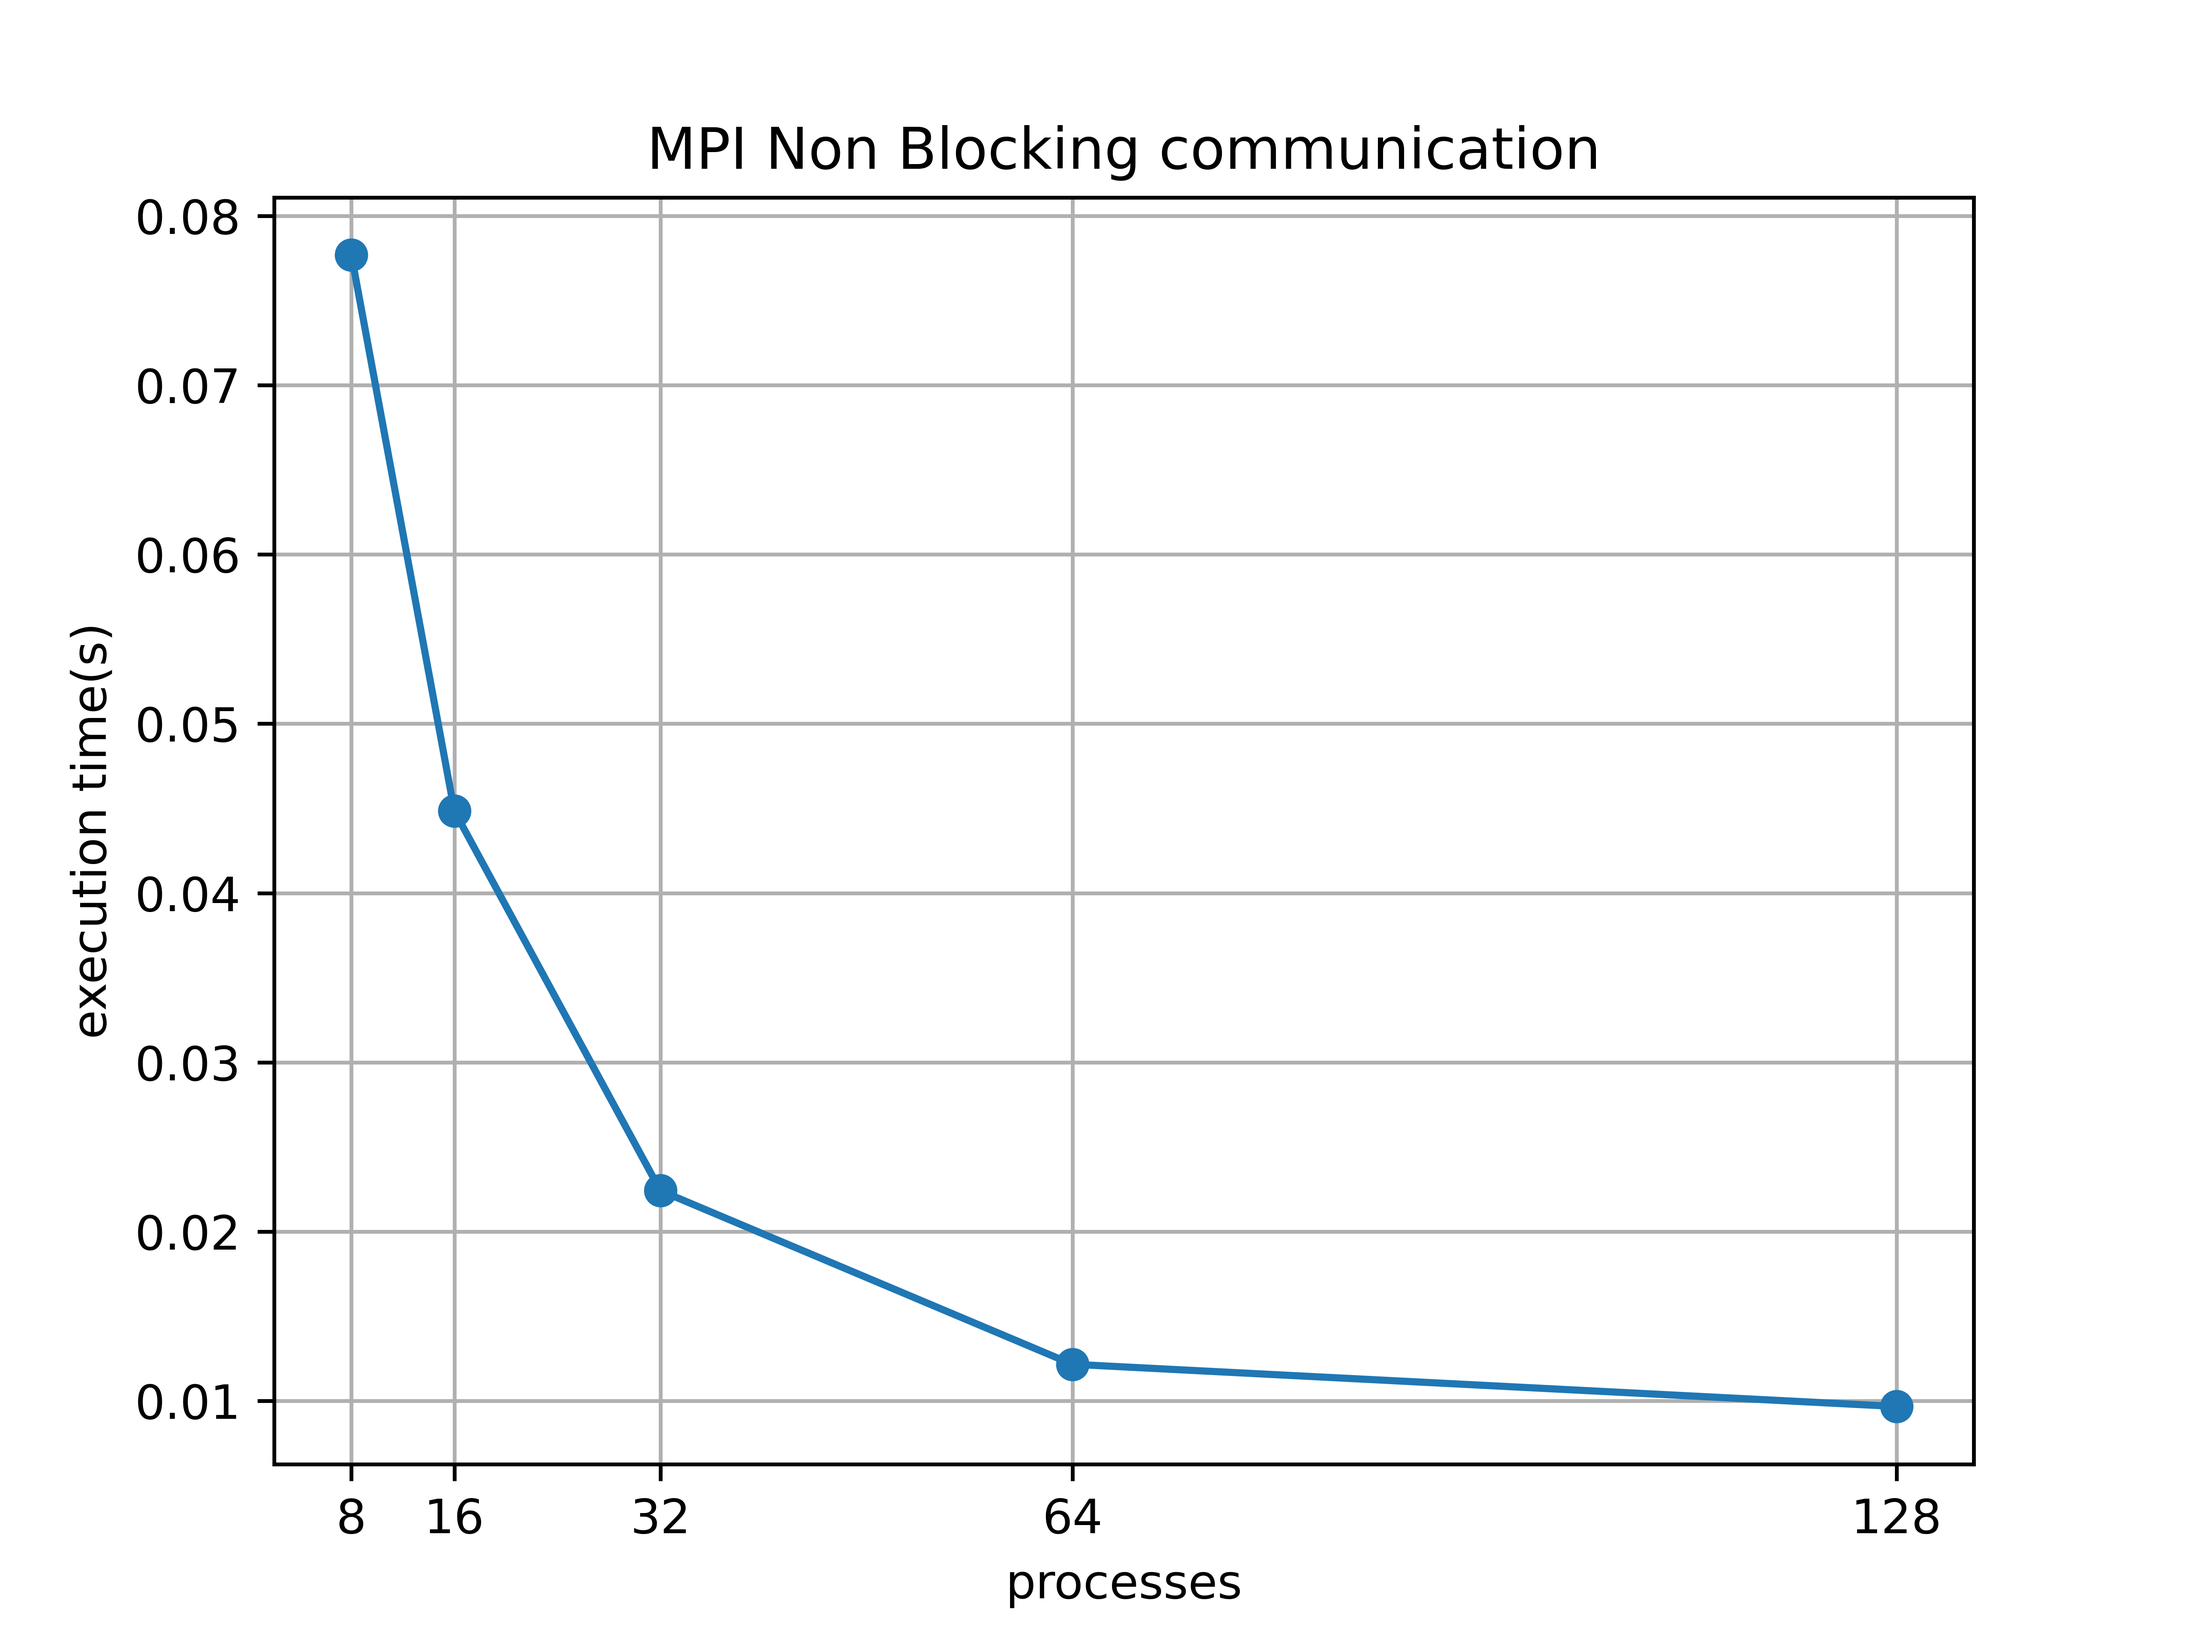
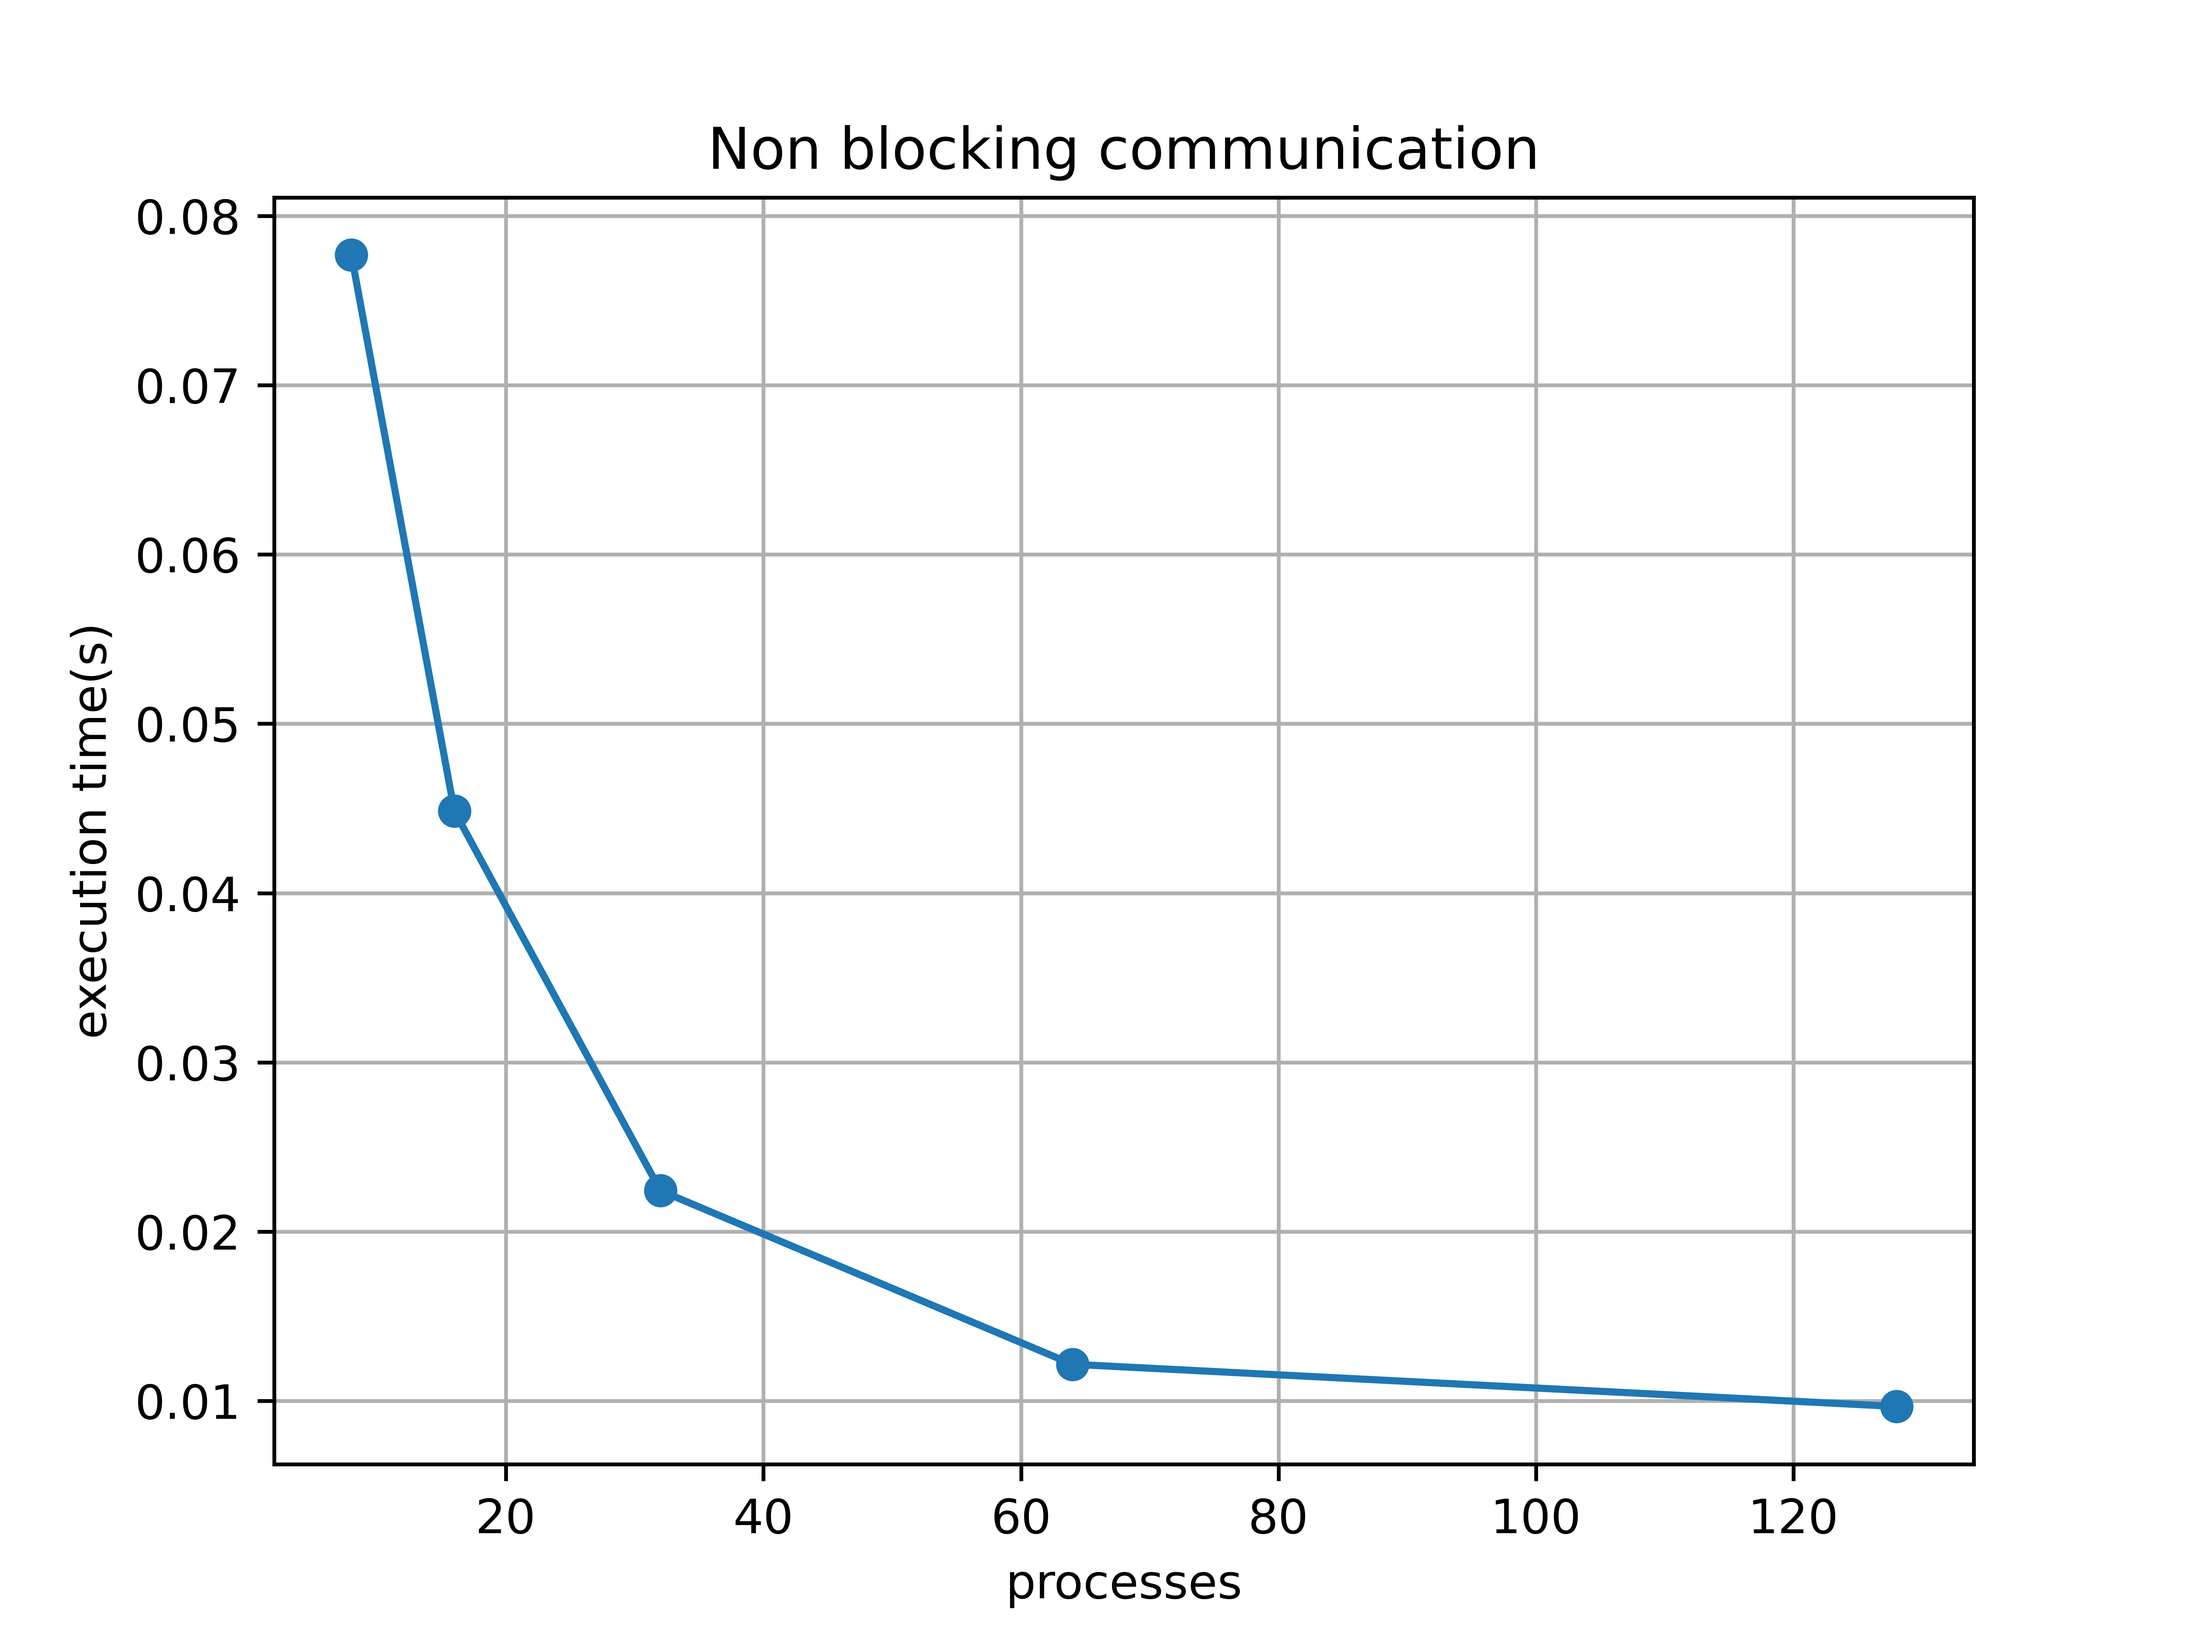
Adding missing pi methods (missing tree algorithm)

diff --git a/report/main.tex b/report/main.tex
@@ -285,5 +285,65 @@ The non-blocking approach performs better since the manager process (rank 0) doe
 	
 \end{enumerate}
 
+
+\subsection{MPI Collective MPI\_Gather}
+
+
+\begin{figure}[H]
+  \centering
+  \includegraphics[width=0.8\textwidth]{graph-pi-mpi-gather.png}
+  \caption{MPI\_Gather 8 to 128 processes}
+  \label{fig:blocking}
+\end{figure}
+% javierca@beskow-login2:/cfs/klemming/scratch/j/% javierca/HPC_MPI/HPC_mpi/pi> srun -n 8 gather.out 
+% pi: 3.141302
+% Execution Time: 0.071430
+% javierca@beskow-login2:/cfs/klemming/scratch/j/% javierca/HPC_MPI/HPC_mpi/pi> srun -n 16 gather.out 
+% pi: 3.140568
+% Execution Time: 0.038054
+% javierca@beskow-login2:/cfs/klemming/scratch/j/% javierca/HPC_MPI/HPC_mpi/pi> srun -n 32 gather.out 
+% pi: 3.141721
+% Execution Time: 0.027142
+% javierca@beskow-login2:/cfs/klemming/scratch/j/% javierca/HPC_MPI/HPC_mpi/pi> srun -n 64 gather.out 
+% pi: 3.141775
+% Execution Time: 0.012407
+% javierca@beskow-login2:/cfs/klemming/scratch/j/% javierca/HPC_MPI/HPC_mpi/pi> srun -n 128 gather.% out 
+% pi: 3.141996
+% Execution Time: 0.008289
+% javierca@beskow-login2:/cfs/klemming/scratch/j/% javierca/HPC_MPI/HPC_mpi/pi> 
+
+\subsection{MPI Collective MPI\_Reduce}
+
+
+\begin{figure}[H]
+  \centering
+  \includegraphics[width=0.8\textwidth]{graph-pi-mpi-reduce.png}
+  \caption{MPI\_Reduce 8 to 128 processes}
+  \label{fig:blocking}
+\end{figure}
+% javierca@beskow-login2:/cfs/klemming/scratch/j/% javierca/HPC_MPI/HPC_mpi/pi> srun -n 8 collective.% out 
+% pi: 3.141894
+% Execution Time: 0.080002
+% javierca@beskow-login2:/cfs/klemming/scratch/j/% javierca/HPC_MPI/HPC_mpi/pi> srun -n 16 collective.% out 
+% pi: 3.141840
+% Execution Time: 0.045499
+% javierca@beskow-login2:/cfs/klemming/scratch/j/% javierca/HPC_MPI/HPC_mpi/pi> srun -n 32 collective.% out 
+% pi: 3.141454
+% Execution Time: 0.019708
+% javierca@beskow-login2:/cfs/klemming/scratch/j/% javierca/HPC_MPI/HPC_mpi/pi> srun -n 64 collective.% out 
+% pi: 3.141425
+% Execution Time: 0.011591
+% javierca@beskow-login2:/cfs/klemming/scratch/j/% javierca/HPC_MPI/HPC_mpi/pi> srun -n 128 % collective.out 
+% pi: 3.141079
+% Execution Time: 0.008663
+
+
+\begin{figure}[H]
+  \centering
+  \includegraphics[width=0.8\textwidth]{all.png}
+  \caption{PI calculation with all approaches.}
+  \label{fig:blocking}
+\end{figure}
+
 \end{document}
 

diff --git a/report/plot.py b/report/plot.py
@@ -1,13 +1,52 @@
 import matplotlib.pyplot as plt
 
-
+blocking = [0.168, 0.0821, 0.0474, 0.0287, 0.0184]
 non_blocking_data = [0.077699, 0.044840, 0.022413, 0.012153, 0.009659]
+gather = [0.0714, 0.0380, 0.0271, 0.0124, 0.0082]
+collective = [0.080, 0.0455, 0.0197, 0.0116, 0.0087]
 
-plt.plot([8, 16, 32, 64, 128], non_blocking_data, 'o-')
-
+plt.title("Blocking communication")
 plt.grid(True)
-plt.title("MPI Non Blocking communication")
 plt.xlabel("processes")
 plt.ylabel("execution time(s)")
-#plt.xticks([8,16,32,64,128])
+plt.plot([8, 16, 32, 64, 128], blocking, 'o-')
+plt.savefig("graph-pi-blocking.png", dpi=800)
+plt.cla()
+
+plt.title("Non blocking communication")
+plt.grid(True)
+plt.xlabel("processes")
+plt.ylabel("execution time(s)")
+plt.plot([8, 16, 32, 64, 128], non_blocking_data, 'o-')
 plt.savefig("graph-pi-non-blocking.png", dpi=800)
+plt.cla()
+
+plt.title("MPI_Gather")
+plt.grid(True)
+plt.xlabel("processes")
+plt.ylabel("execution time(s)")
+plt.plot([8, 16, 32, 64, 128], gather, 'o-')
+plt.savefig("graph-pi-mpi-gather.png", dpi=800)
+plt.cla()
+
+plt.title("MPI_Reduce")
+plt.grid(True)
+plt.xlabel("processes")
+plt.ylabel("execution time(s)")
+plt.plot([8, 16, 32, 64, 128], collective, 'o-')
+plt.savefig("graph-pi-mpi-reduce.png", dpi=800)
+plt.cla()
+
+
+
+plt.grid(True)
+
+plt.plot([8, 16, 32, 64, 128], blocking, 'o-')
+plt.plot([8, 16, 32, 64, 128], non_blocking_data, 'o-')
+plt.plot([8, 16, 32, 64, 128], gather, 'o-')
+plt.plot([8, 16, 32, 64, 128], collective, 'o-')
+
+plt.legend(["Blocking communication", "Non blocking communication", "MPI_Gather", "MPI_Reduce"])
+plt.savefig("all.png", dpi=800)
+
+#plt.xticks([8,16,32,64,128])
